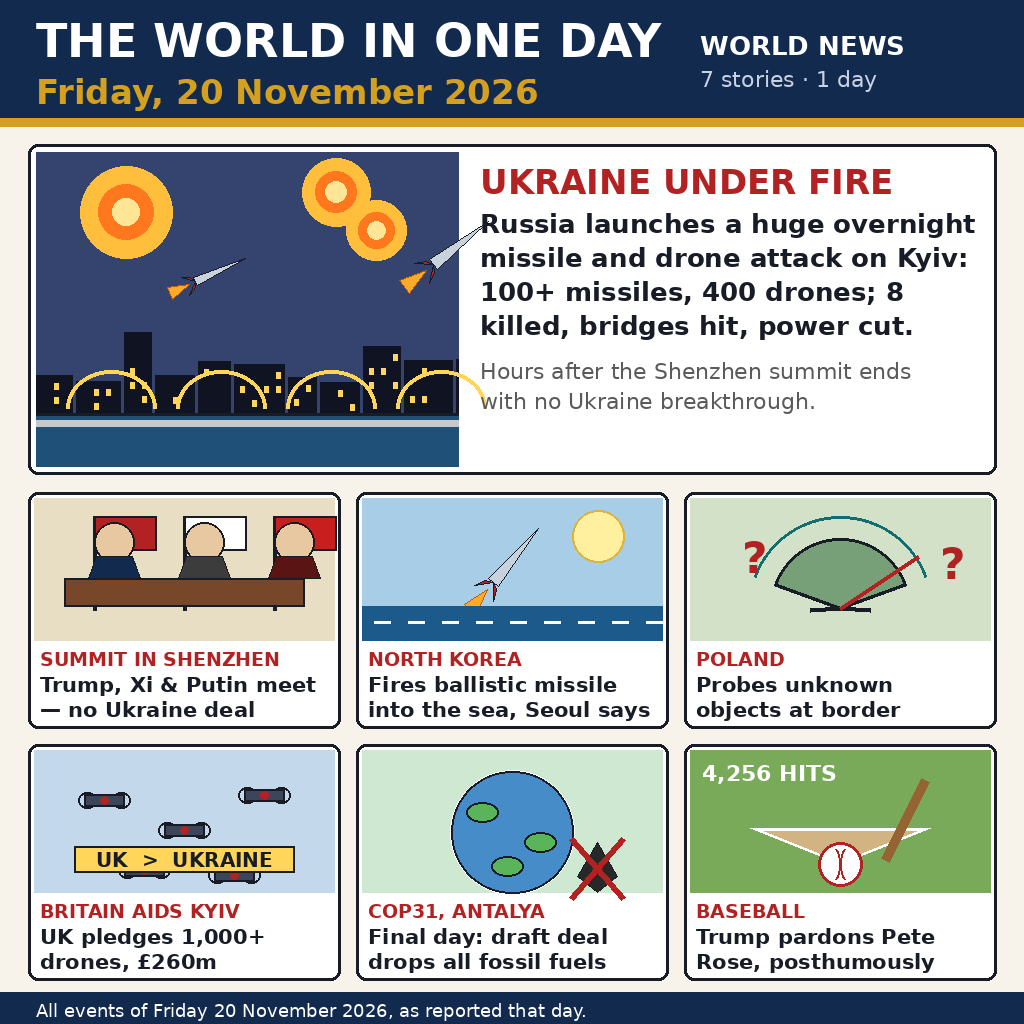
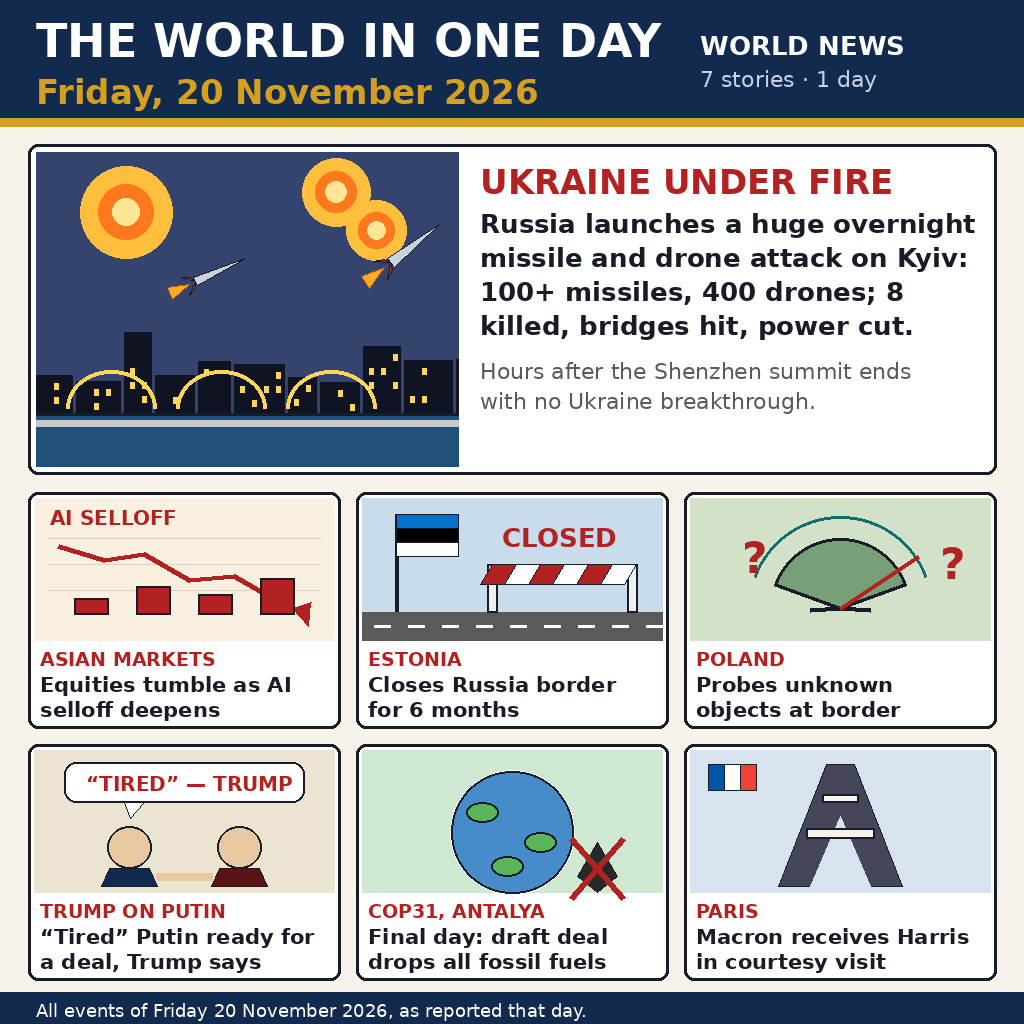
Fix dates: all seven stories verified as 20 November 2026

diff --git a/draw.py b/draw.py
@@ -116,53 +116,58 @@ def scene_strikes(draw, box):
         for rr, col in [(r, (255, 190, 60)), (r * 0.6, (255, 120, 30)),
                         (r * 0.3, (255, 230, 150))]:
             draw.ellipse([cx - rr, cy - rr, cx + rr, cy + rr], fill=col)
-    missile(draw, x0 + 420, y0 + 95, -38, 0.9)
+    missile(draw, x0 + 375, y0 + 95, -38, 0.8)
     missile(draw, x0 + 180, y0 + 120, -25, 0.7)
     skyline(draw, x0, y0 + 150, x1, y1 - 52, (16, 20, 34))
     # river + bridge
     draw.rectangle([x0, y1 - 52, x1, y1], fill=(30, 80, 120))
     draw.line([x0, y1 - 52, x1, y1 - 52], fill=INK, width=3)
-    for bx in range(x0 + 30, x1 - 30, 110):
+    for bx in range(x0 + 30, x1 - 120, 110):
         draw.arc([bx, y1 - 96, bx + 90, y1 - 20], 180, 360,
                  fill=(255, 214, 90), width=4)
     draw.rectangle([x0, y1 - 46, x1, y1 - 40], fill=(200, 200, 200))
 
 
-def scene_summit(draw, box):
+def scene_markets(draw, box):
     x0, y0, x1, y1 = box
-    draw.rectangle(box, fill=(232, 222, 196))
-    # three flags on poles
-    cols = [(178, 34, 34), (255, 255, 255), (200, 30, 30)]
-    for i, c in enumerate(cols):
-        fx = x0 + 60 + i * 90
-        draw.line([fx, y0 + 18, fx, y1 - 30], fill=INK, width=4)
-        draw.rectangle([fx, y0 + 18, fx + 62, y0 + 52], fill=c,
+    draw.rectangle(box, fill=(250, 240, 225))
+    draw.text((x0 + 16, y0 + 8), "AI SELLOFF", font=font(BOLD, 20), fill=RED)
+    for gy in range(y0 + 40, y1 - 30, 26):
+        draw.line([x0 + 14, gy, x1 - 14, gy], fill=(220, 210, 190), width=1)
+    pts = [(x0 + 24, y0 + 48), (x0 + 70, y0 + 62), (x0 + 110, y0 + 56),
+           (x0 + 155, y0 + 82), (x0 + 200, y0 + 78), (x0 + 245, y0 + 104),
+           (x0 + 274, y0 + 116)]
+    draw.line(pts, fill=RED, width=5, joint="curve")
+    ex, ey = pts[-1]
+    draw.polygon([(ex, ey + 12), (ex - 16, ey - 6), (ex + 2, ey - 12)],
+                 fill=RED)
+    for i, bh in enumerate([16, 28, 20, 36]):
+        bx = x0 + 40 + i * 62
+        draw.rectangle([bx, y1 - 26 - bh, bx + 34, y1 - 26],
+                       fill=(178, 34, 34), outline=INK, width=2)
+
+
+def scene_estonia(draw, box):
+    x0, y0, x1, y1 = box
+    draw.rectangle(box, fill=(200, 220, 235))
+    # Estonian flag (blue-black-white) on a pole
+    draw.line([x0 + 34, y0 + 16, x0 + 34, y1 - 28], fill=INK, width=4)
+    for i, c in enumerate([(0, 114, 206), (0, 0, 0), (255, 255, 255)]):
+        draw.rectangle([x0 + 34, y0 + 16 + i * 14, x0 + 96, y0 + 30 + i * 14],
+                       fill=c, outline=INK, width=1)
+    draw.text((x0 + 140, y0 + 24), "CLOSED", font=font(BOLD, 26), fill=RED)
+    # road + closed barrier arm (red/white stripes)
+    draw.rectangle([x0, y1 - 28, x1, y1], fill=(90, 90, 90))
+    for px in (x0 + 130, x1 - 30):
+        draw.rectangle([px - 5, y0 + 66, px + 5, y1 - 28], fill=(240, 240, 240),
                        outline=INK, width=2)
-    # table with three leaders (simple figures)
-    draw.rectangle([x0 + 30, y1 - 62, x1 - 30, y1 - 34], fill=(120, 70, 40),
-                   outline=INK, width=2)
-    for i, suit in enumerate([(18, 42, 78), (60, 60, 60), (90, 20, 20)]):
-        cx = x0 + 80 + i * 90
-        draw.ellipse([cx - 20, y1 - 118, cx + 20, y1 - 78], fill=(232, 200, 160),
-                     outline=INK, width=2)
-        draw.polygon([(cx - 26, y1 - 62), (cx + 26, y1 - 62),
-                      (cx + 18, y1 - 84), (cx - 18, y1 - 84)],
-                     fill=suit, outline=INK)
-
-
-def scene_missile_sea(draw, box):
-    x0, y0, x1, y1 = box
-    draw.rectangle(box, fill=(168, 205, 230))
-    draw.ellipse([x0 + 210, y0 + 12, x0 + 262, y0 + 64], fill=(255, 240, 160),
-                 outline=(220, 180, 60), width=2)
-    missile(draw, x0 + 150, y0 + 62, -50, 0.9)
-    for k in range(4):
-        draw.arc([x0 + 40 + k * 60, y0 + 120 + k * 8,
-                  x0 + 120 + k * 60, y0 + 150 + k * 8], 200, 340,
-                 fill=(255, 255, 255), width=4)
-    draw.rectangle([x0, y1 - 34, x1, y1], fill=(28, 90, 140))
+    for i in range(6):
+        sx = x0 + 130 + i * 24
+        draw.polygon([(sx, y0 + 66), (sx + 24, y0 + 66),
+                      (sx + 12, y0 + 86), (sx - 12, y0 + 86)],
+                     fill=RED if i % 2 == 0 else (255, 255, 255), outline=INK)
     for wx in range(x0 + 12, x1 - 12, 34):
-        draw.line([wx, y1 - 18, wx + 16, y1 - 18], fill=(255, 255, 255), width=3)
+        draw.line([wx, y1 - 14, wx + 16, y1 - 14], fill=(255, 255, 255), width=3)
 
 
 def scene_poland(draw, box):
@@ -181,20 +186,25 @@ def scene_poland(draw, box):
         draw.text((qx, qy), "?", font=font(BOLD, 44), fill=RED)
 
 
-def scene_drones(draw, box):
+def scene_trump_putin(draw, box):
     x0, y0, x1, y1 = box
-    draw.rectangle(box, fill=(196, 216, 235))
-    for i, (dx, dy) in enumerate([(70, 50), (150, 80), (230, 45),
-                                  (110, 120), (200, 125)]):
-        cx, cy = x0 + dx, y0 + dy
-        draw.ellipse([cx - 26, cy - 8, cx - 8, cy + 8], outline=INK, width=2)
-        draw.ellipse([cx + 8, cy - 8, cx + 26, cy + 8], outline=INK, width=2)
-        draw.rectangle([cx - 20, cy - 6, cx + 20, cy + 6], fill=(60, 70, 90),
-                       outline=INK, width=2)
-        draw.ellipse([cx - 4, cy - 4, cx + 4, cy + 4], fill=RED)
-    draw.rectangle([x0 + 40, y1 - 46, x1 - 40, y1 - 20], fill=(255, 214, 90),
-                   outline=INK, width=2)
-    draw.text((x0 + 62, y1 - 44), "UK  >  UKRAINE", font=font(BOLD, 20), fill=INK)
+    draw.rectangle(box, fill=(235, 228, 210))
+    # speech bubble
+    draw.rounded_rectangle([x0 + 30, y0 + 12, x1 - 30, y0 + 52], radius=12,
+                           fill=(255, 255, 255), outline=INK, width=2)
+    draw.polygon([(x0 + 90, y0 + 52), (x0 + 110, y0 + 52), (x0 + 96, y0 + 68)],
+                 fill=(255, 255, 255), outline=INK)
+    draw.text((x0 + 52, y0 + 22), "\u201cTIRED\u201d \u2014 TRUMP",
+              font=font(BOLD, 20), fill=RED)
+    # two figures shaking hands
+    for cx, suit in [(x0 + 95, (18, 42, 78)), (x0 + 205, (90, 20, 20))]:
+        draw.ellipse([cx - 22, y0 + 76, cx + 22, y0 + 118], fill=(232, 200, 160),
+                     outline=INK, width=2)
+        draw.polygon([(cx - 28, y1 - 6), (cx + 28, y1 - 6),
+                      (cx + 20, y0 + 118), (cx - 20, y0 + 118)],
+                     fill=suit, outline=INK)
+    draw.line([x0 + 122, y0 + 126, x0 + 178, y0 + 126],
+              fill=(232, 200, 160), width=8)
 
 
 def scene_cop(draw, box):
@@ -216,34 +226,37 @@ def scene_cop(draw, box):
     draw.line([ox - 26, oy + 30, ox + 26, oy - 30], fill=RED, width=6)
 
 
-def scene_rose(draw, box):
+def scene_harris_macron(draw, box):
     x0, y0, x1, y1 = box
-    draw.rectangle(box, fill=(120, 170, 90))
-    draw.polygon([(x0 + 150, y1 - 28), (x0 + 60, y0 + 78),
-                  (x0 + 240, y0 + 78)], fill=(210, 180, 130),
-                 outline=(255, 255, 255), width=3)
-    draw.ellipse([x0 + 128, y0 + 92, x0 + 172, y0 + 136], fill=(255, 255, 255),
-                 outline=RED, width=3)
-    draw.arc([x0 + 134, y0 + 96, x0 + 150, y0 + 132], 300, 60, fill=RED, width=2)
-    draw.arc([x0 + 150, y0 + 96, x0 + 166, y0 + 132], 120, 240, fill=RED, width=2)
-    # bat
-    draw.line([x0 + 235, y0 + 30, x0 + 195, y0 + 110], fill=(150, 100, 50),
-              width=10)
-    draw.text((x0 + 12, y0 + 10), "4,256 HITS", font=font(BOLD, 22), fill=(255, 255, 255))
+    draw.rectangle(box, fill=(215, 228, 240))
+    # French flag
+    for i, c in enumerate([(0, 85, 164), (255, 255, 255), (239, 65, 53)]):
+        draw.rectangle([x0 + 18 + i * 16, y0 + 14, x0 + 34 + i * 16, y0 + 40],
+                       fill=c, outline=INK, width=1)
+    # Eiffel Tower silhouette with arched legs
+    cx = x0 + 150
+    draw.polygon([(cx - 62, y1 - 6), (cx - 14, y0 + 14), (cx + 14, y0 + 14),
+                  (cx + 62, y1 - 6)], fill=(70, 70, 90), outline=INK)
+    draw.polygon([(cx - 30, y1 - 6), (cx + 30, y1 - 6), (cx, y0 + 66)],
+                 fill=(215, 228, 240))
+    draw.rectangle([cx - 34, y0 + 78, cx + 34, y0 + 88], fill=(247, 243, 234),
+                   outline=INK, width=2)
+    draw.rectangle([cx - 18, y0 + 44, cx + 18, y0 + 52], fill=(247, 243, 234),
+                   outline=INK, width=2)
 
 TILES = [
-    ("SUMMIT IN SHENZHEN", "Trump, Xi & Putin meet \u2014 no Ukraine deal",
-     scene_summit, (232, 222, 196)),
-    ("NORTH KOREA", "Fires ballistic missile into the sea, Seoul says",
-     scene_missile_sea, (168, 205, 230)),
+    ("ASIAN MARKETS", "Equities tumble as AI selloff deepens",
+     scene_markets, (250, 240, 225)),
+    ("ESTONIA", "Closes Russia border for 6 months",
+     scene_estonia, (200, 220, 235)),
     ("POLAND", "Probes unknown objects at border",
      scene_poland, (210, 225, 200)),
-    ("BRITAIN AIDS KYIV", "UK pledges 1,000+ drones, \u00a3260m",
-     scene_drones, (196, 216, 235)),
+    ("TRUMP ON PUTIN", "\u201cTired\u201d Putin ready for a deal, Trump says",
+     scene_trump_putin, (235, 228, 210)),
     ("COP31, ANTALYA", "Final day: draft deal drops all fossil fuels",
      scene_cop, (206, 232, 210)),
-    ("BASEBALL", "Trump pardons Pete Rose, posthumously",
-     scene_rose, (120, 170, 90)),
+    ("PARIS", "Macron receives Harris in courtesy visit",
+     scene_harris_macron, (215, 228, 240)),
 ]
 
 

diff --git a/README.md b/README.md
@@ -4,7 +4,7 @@
 [![rank](https://make.fun/badge/news-image-20261120/kimdubu1993-cyber/news-image-20261120/rank.svg)](https://make.fun/bounty/news-image-20261120/leaderboard?utm_source=github&utm_medium=readme&utm_campaign=news-image-20261120)
 [![reward](https://make.fun/badge/news-image-20261120/kimdubu1993-cyber/news-image-20261120/reward.svg)](https://make.fun/bounty/news-image-20261120?utm_source=github&utm_medium=readme&utm_campaign=news-image-20261120)
 
-A one-page newspaper front page summing up Friday 20 November 2026 in seven drawn stories: Russia's huge overnight missile and drone attack on Kyiv, the Trump–Xi–Putin summit in Shenzhen ending with no Ukraine deal, North Korea's ballistic missile launch into the sea, Poland probing unknown objects near its Ukraine border, Britain's £260m drone package for Ukraine, COP31's final day in Antalya with a draft deal that drops all fossil-fuel mentions, and Trump's posthumous pardon of baseball's Pete Rose. The image is drawn fresh with Python/PIL and copied to the output by main.py.
+A one-page newspaper front page summing up Friday 20 November 2026 in seven drawn stories: Russia's huge overnight missile and drone attack on Kyiv, Asian equities tumbling as the AI-stock selloff deepens, Estonia closing its border crossings with Russia for at least six months, Poland probing unknown objects near its Ukraine border, Trump saying a "tired" Putin is ready for a deal, COP31's final day in Antalya with a draft deal that drops all fossil-fuel mentions, and Macron receiving Kamala Harris in Paris. The image is drawn fresh with Python/PIL and copied to the output by main.py.
 
 ## Run it
 
